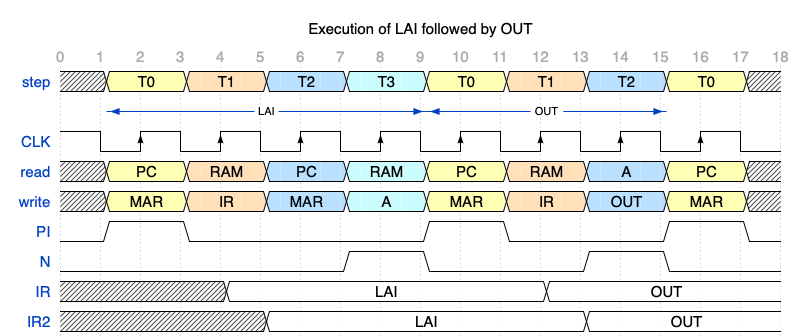
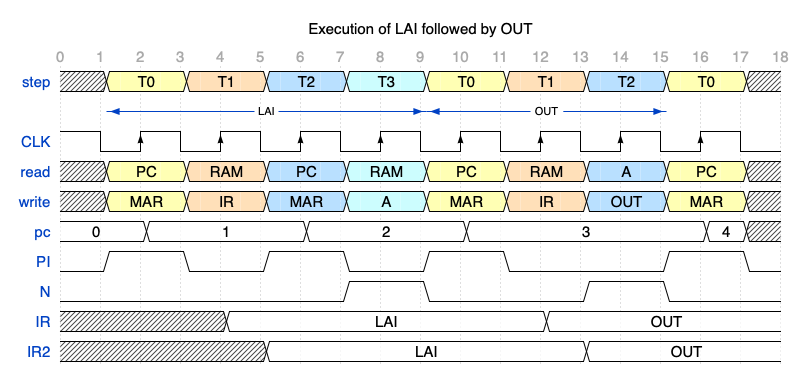
add PC contents to instruction cycle timing diagram

diff --git a/docs/_docs/ref-200-instruction-cycle.md b/docs/_docs/ref-200-instruction-cycle.md
@@ -24,7 +24,7 @@ Load A Immediate is a two-byte instruction.  The A register is loaded with the v
 
 **Marker 4**: the rising CLK edge loads the contents of RAM into the Instruction Register (IR).  This is the end of the _T0_ and _T1_ instruction fetch steps.  The Microcode ROM is now executing the LAI instruction's microcode steps.
 
-**Markers 5..6**: the MAR is loaded from the PC in step _T2_, exactly as was done in step T0.  This fetches the address of the instruction operand.
+**Markers 5..6**: the MAR is loaded from the PC and the PC is incremented in step _T2_, exactly as was done in step T0.  This fetches the address of the instruction operand.
 
 **Markers 7..8**: in step _T3_, the RAM contents are loaded into the A register.  The Next (N) signal is also asserted in this step, which will reset the SC back to step 0 (_T0_) to end the instruction.  The N reset is synchronous and will occur at the falling CLK edge at **marker 9**.
 
